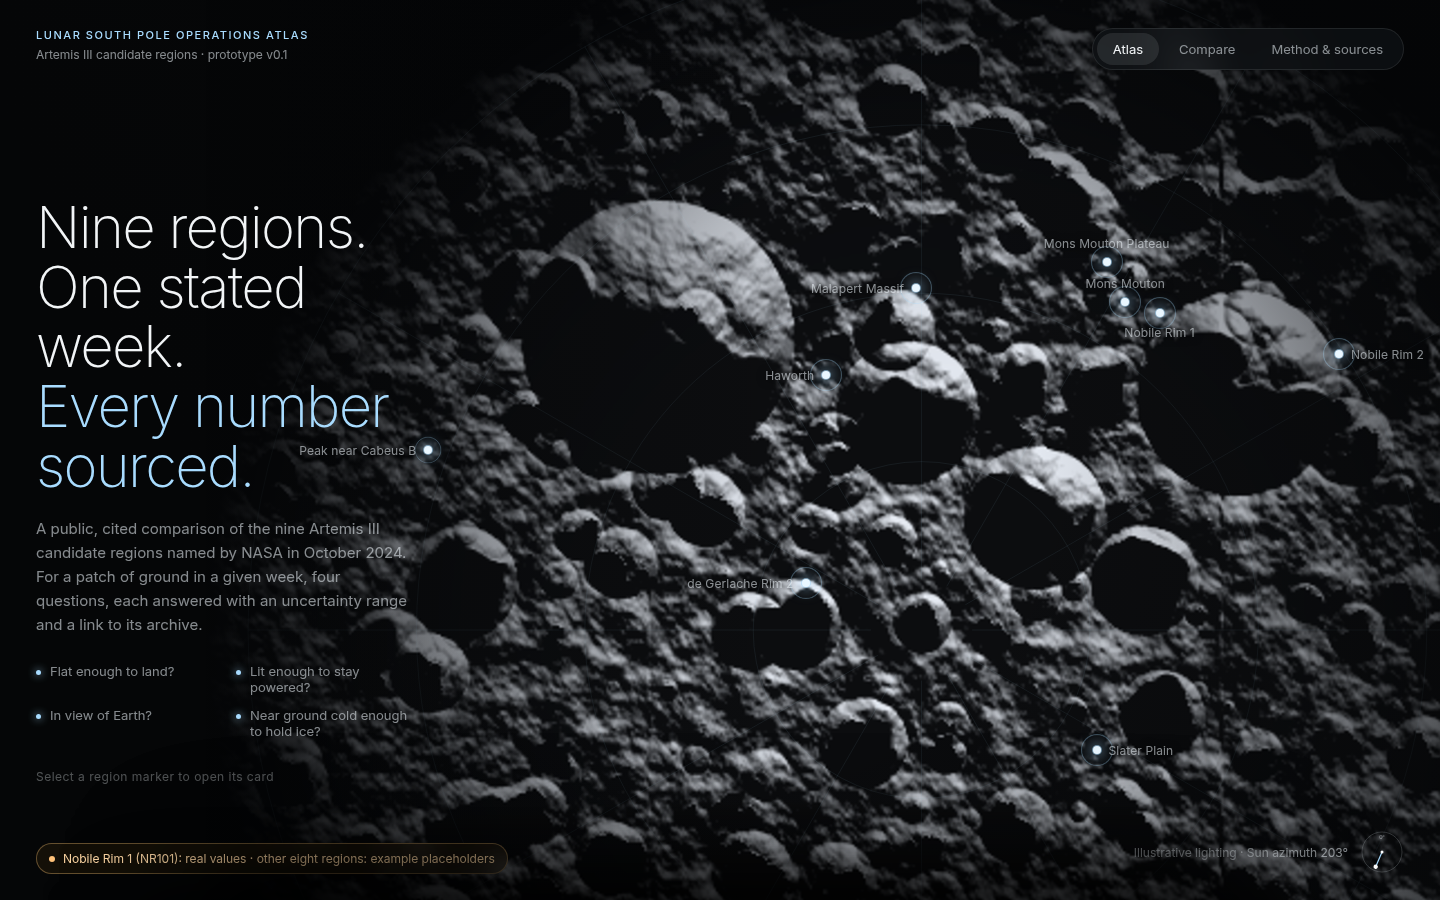
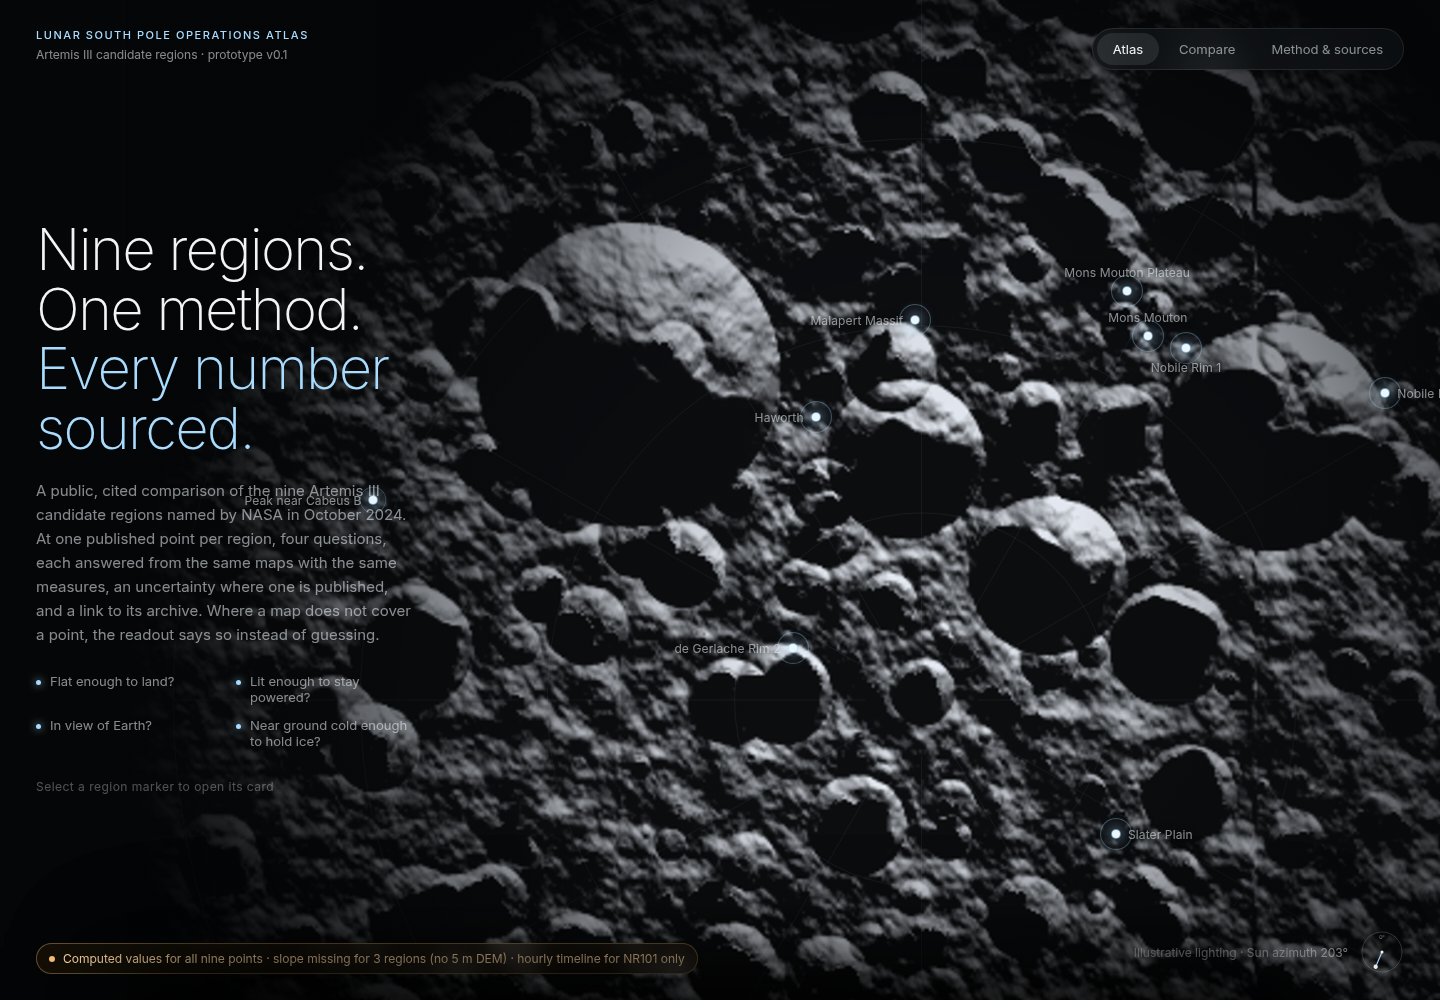
Regenerate web screenshots; update web/README, README, and docs/data-sources (MANIFEST path, Diviner TLS quirk)

diff --git a/moon-south-pole-atlas/web/README.md b/moon-south-pole-atlas/web/README.md
@@ -13,32 +13,50 @@ python -m http.server 8000     # then open http://localhost:8000
 
 Deep links: `#region/NR1`, `#compare`, `#method`.
 
-## What is real and what is example
+## What is computed and what is not
 
 | Part | Status |
 | --- | --- |
-| Nobile Rim 1 / NR101 card: slope and RMS slope error, 18.6-year sunlight and Earth averages, Diviner summer max temperature, distance to cold shadow, LOLA return count | **Real**, from `data/nr101.json` |
-| NR101 hourly Sun and Earth series (2025-01-01 + 14 days shown, 30 days exported, 1 m and 5 m) | **Real**, from the repo's horizon and DE421 code |
+| Nine region cards and the comparison table: slope with RMS slope error, 18.6-year sunlight and Earth averages, Diviner summer max temperature, permanent-shadow flag, distance to cold shadow, LOLA return count | **Computed** by `atlas.regions`, exported to `data/regions.json`. Every row uses the same measures. |
+| Slope, slope error, return count for Peak near Cabeus B, Mons Mouton Plateau, Slater Plain | **Not computed**, shown as `n/a` with the reason: product 78 has no 5 m site DEM containing those points, and the 20 m mosaic is not substituted. |
+| NR101 hourly Sun and Earth series (2025-01-01 + 14 days shown, 30 days exported, 1 m and 5 m) | **Computed** from the repo's horizon and DE421 code, `data/nr101.json`. **NR101 only**: the other eight cards say no timeline exists, because the terrain horizon needs each site's 5 m elevation raster, and only Site 06 has been downloaded and processed. |
 | Region marker positions (first Wueller et al. 2026 Table A1 point per region) | Real coordinates |
-| The other eight regions' readouts, timelines and table rows | **Example placeholders**, labelled on screen |
 | Moon surface rendering and Sun-azimuth lighting | Procedural art, not terrain |
 
-There is no combined score, no ranking, no "safe" verdict and no ice volume. Screening cuts are shown as reference marks, not flight rules.
+There are no example or placeholder numbers left. If `data/regions.js` fails to load, cards say so and show nothing. There is no combined score, no ranking, no "safe" verdict and no ice volume. Screening cuts are shown as reference marks, not flight rules.
 
-## Regenerate the real data
+### Consistent measures
 
-From `moon-south-pole-atlas/`, with the packages in `requirements.txt` and the rasters and kernels in `data/raw/` (see `data/MANIFEST.tsv`):
+Earlier prototype rows mixed 18.6-year averages (NR101) with 14-day means (example rows). Now every table row and card readout is the 18.6-year average from the 75°S / 120 m maps. The NR101 card also prints its 14-day window percentage next to the average, labelled "separate product", because the two differ (for example Sun at 1 m: 100% over the first 14 days of January 2025, against 0.77 long-term).
+
+Cold-ground distance for all nine rows is searched inside one window (the nine points plus 40 km), so rows are comparable. The ± on it is one Diviner pixel (240 m), a resolution bound, not a statistical error.
+
+## Regenerate the data
+
+From `moon-south-pole-atlas/`, with the packages in `requirements.txt` and the rasters and kernels in `data/raw/` (checksums in `data/MANIFEST.tsv`; the Diviner host needs the TLS workaround in `docs/data-sources.md`):
 
 ```
-python -m atlas.export_web
+python -m atlas.export_web                  # regions.* and nr101.*, about 20 s
+python -m atlas.export_web --skip-timeline  # regions.* only
+python -m unittest tests.test_query tests.test_horizon tests.test_regions tests.test_export_web
 ```
 
-This writes `web/data/nr101.json` (canonical) and `web/data/nr101.js` (the same object as `window.NR101_DATA`). The page loads the `.js` file with a `<script>` tag because browsers block `fetch` of local JSON from `file://`. If the file is missing, the page falls back to example data everywhere.
+This writes `web/data/regions.json` and `nr101.json` (canonical) plus `.js` twins (`window.REGIONS_DATA`, `window.NR101_DATA`). The page loads the `.js` files with `<script>` tags because browsers block `fetch` of local JSON from `file://`. The exporter refuses any key named score, safe, safety, rank, ranking or similar.
+
+## Screenshots
+
+`web/screenshots/`: `home.png`, `nr101-card.png` (with timeline), `haworth-card.png`, `cabeus-card-no-slope.png` (slope not computed), `compare.png`, `method.png`. Taken with headless Chrome:
+
+```
+google-chrome --headless=new --window-size=1440,1000 --virtual-time-budget=6000 \
+  --screenshot=web/screenshots/compare.png "file://$PWD/web/index.html#compare"
+```
 
 ## Limitations
 
-- Only one region is computed. The other eight need their own point queries and timelines (and three of the nine have no product-78 slope tile).
-- At NR101 the LOLA return count is 0, so the slope there is interpolated, not measured. The card says so.
-- Sunlight and Earth dials for NR101 are 18.6-year averages with no published error bar. The window fraction for the current eye height is printed beside them.
-- The cold-ground range is plus or minus one 240 m Diviner pixel, a resolution bound, not a statistical error.
+- Three of nine regions have no slope, slope error or return count (no product-78 5 m tile contains the point). Mons Mouton (MMO01) is on the Site 20 Leibnitz beta tile, which is not a Mons Mouton Plateau DEM.
+- One published point per region, nearest pixel, not a region polygon.
+- Where the LOLA return count at the pixel is 0 (NR101, Malapert, Nobile Rim 2, de Gerlache Rim 2), slope there is interpolated, not measured. The card says so.
+- Sunlight and Earth averages have no published error bar.
 - Earth visibility is disc visibility, not a radio link budget.
+- Timeline is NR101 only.

diff --git a/moon-south-pole-atlas/README.md b/moon-south-pole-atlas/README.md
@@ -60,7 +60,7 @@ The ephemeris is JPL DE421 in the MOON_ME frame. Earth visibility is still disc 
 
 ## Run the nine-region comparison
 
-Months 5–6 apply the same five fields at one published point in each of the nine October 2024 regions. The points are the first Wueller et al. 2026 Table A1 site in each region (NR101 stays 36.917°E, 85.295°S). The rows are not a ranking. Sunlight and Earth are the 18.6-year averages, not the NR101 hourly timeline. Where product 78 has no 5 m tile that contains the point, slope, slope RMS, and the LOLA return count are missing.
+Months 5–6 apply the same five fields at one published point in each of the nine October 2024 regions. The points are the first Wueller et al. 2026 Table A1 site in each region (NR101 stays 36.917°E, 85.295°S). The rows are not a ranking. Sunlight and Earth are the 18.6-year averages, not the NR101 hourly timeline. Where product 78 has no 5 m tile that contains the point, slope, slope RMS, and the LOLA return count are missing. Each row also carries the distance to the nearest permanent-shadow pixel with Diviner summer maximum below 110 K, searched within 40 km beyond the nine points.
 
 ```
 python -m atlas.regions --png output/nine-regions.png
@@ -69,9 +69,9 @@ python -m atlas.regions --png output/nine-regions.png
 The figure's method note states the south-polar frame, the sources, the nine coordinates, and four caveats: cuts are not flight rules, Earth visibility is not a radio link budget, ice is not a volume, and there is no single score.
 
 ```
-python -m unittest tests.test_query tests.test_horizon tests.test_regions
+python -m unittest tests.test_query tests.test_horizon tests.test_regions tests.test_export_web
 ```
 
 ## Web prototype
 
-A static, dependency-free frontend prototype is in [web/](web/README.md). Nobile Rim 1 / NR101 uses real values exported by `python -m atlas.export_web`; the other eight regions are labelled example data.
+A static, dependency-free frontend prototype is in [web/](web/README.md). All nine regions show values computed by `python -m atlas.regions` and exported by `python -m atlas.export_web` (18.6-year averages in every row). Slope is missing, and labelled so, for the three regions without a 5 m tile. The hourly timeline exists for NR101 only.

diff --git a/moon-south-pole-atlas/docs/data-sources.md b/moon-south-pole-atlas/docs/data-sources.md
@@ -100,4 +100,17 @@ USGS Lunar Grid Reference System in Artemis Condensed Coordinates, for the nine 
 
 ## Downloads
 
-Put files in `data/raw/`. Do not commit them. Record the URL, the date fetched, and the checksum in `data/raw/MANIFEST.tsv` when the first download happens. The illumination JPEG2000 files are tens of megabytes and worth keeping whole. The Site 06 GeoTIFFs are the same order. The 100 elevation clones are not needed for the first sheet.
+Put files in `data/raw/`. Do not commit them. Record the URL, the date fetched, the SHA-256, and the byte count in `data/MANIFEST.tsv` (tracked in git, one level above the ignored `data/raw/`) when each download happens. Check files with `tail -n +2 data/MANIFEST.tsv | awk -F'\t' '{print $4"  data/raw/"$1}' | sha256sum -c -`. The illumination JPEG2000 files are tens of megabytes and worth keeping whole. The Site 06 GeoTIFFs are the same order. The 100 elevation clones are not needed for the first sheet.
+
+### Download quirks (seen 8–10 October 2026)
+
+- **Diviner host TLS.** `luna1.diviner.ucla.edu` serves a certificate the system trust store cannot verify (`curl: (60) unable to get local issuer certificate`) and, when that is bypassed, a weak Diffie-Hellman key that OpenSSL's default security level rejects (`dh key too small`). Plain `http://` timed out from the build box. The fetch that worked was:
+
+  ```
+  curl -k --ciphers 'DEFAULT:@SECLEVEL=0' -o data/raw/polar_south_80_summer_max-float.tif \
+    https://luna1.diviner.ucla.edu/~jpierre/diviner/level4_polar/additional_maps/polar_south_80_summer_max-float.tif
+  ```
+
+  `-k` and `SECLEVEL=0` turn off certificate and key-strength checks, so the transport proves nothing. Integrity rests on the SHA-256 in `data/MANIFEST.tsv`, which must match after download. Use these flags for this one host only.
+- **imbrium.mit.edu.** The MANIFEST URLs are `http://`. From the build box the HTTP connection timed out; the same paths over `https://` worked and matched the checksums.
+- **pgda.gsfc.nasa.gov** product-78 tiles download normally over HTTPS. Haworth is 142 MB per file; the rest are 41–71 MB. The complete set is about 1.56 GB.
